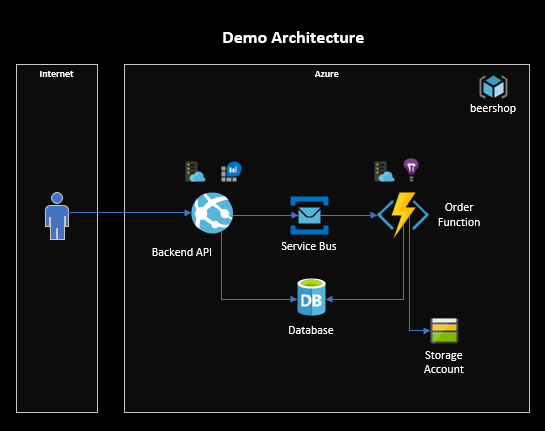
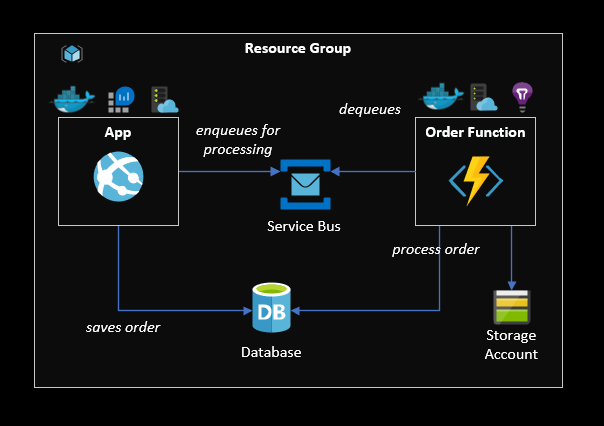
demo vnet

diff --git a/README.md b/README.md
@@ -1,19 +1,62 @@
 # Beer Shop
 
-A demo project to showcase Terraform features on top of Azure Cloud.
+A demo project showcasing Terraform features on top of Azure.
 
-The demo is composed of three main modules:
+This demo is composed of three main modules:
 
-- [**App**](/app) - A Dotnet MVC for user interaction where the user is able to push orders to a queue.
+- [**App**](/app) - A dotnet MVC site for user interaction where the user is able to push orders to a queue.
 - [**Functions**](/functions) - The backend for the application that pulls and processes messages in the queue.
 - [**Infrastructure**](/infrastructure) - The actual Terraform code that creates all the required resources.
 
-Each module is documented separetely.
+## Demo architecture
 
 The following diagram shows all the resources provisioned with Terraform, plus an ACR for Docker images.
 
-<img src="_docs/demo.png" width="500"> </img>
+<img src="_docs/demo.png" width="440"> </img>
 
-### References
+## Local Development
 
-Checkout the [slide deck](https://slides.com/epomatti/terraform) for this demo.
+<u>Requirements</u>: Docker, Azure Functions Core Tools, Dotnet 3.1
+
+### Database
+
+Pull and start SQL Server
+
+```sh
+docker pull mcr.microsoft.com/mssql/server
+docker run -e 'ACCEPT_EULA=Y' -e 'SA_PASSWORD=StrongPassword#999' -p 1433:1433 -d mcr.microsoft.com/mssql/server
+```
+
+### Functions
+
+Create the `local.settings`
+
+Start the function
+
+```sh
+dotnet restore
+func start
+```
+
+### App
+
+
+
+
+## Provisioning the Infrastructure
+
+The infrastructure also has three modules:
+
+- **Enterprise** - Creates the workspaces ("pipelines") in Terraform Cloud
+- **Main** - The resources of the solution
+- **Shared** - Resources shared accross main environments (dev, qa, prod, etc)
+
+To quickly Use Terraform Cloud with [infrastructure/enterprise](infrastructure/enterprise) module as a workspace. It uses the Terraform Enteprise Provider to automatically build the workspaces.
+
+You maybe also use the Terraform CLI or any other CI/CD tool.
+
+## Extra
+
+Checkout my [slide deck](https://slides.com/epomatti/terraform) about Terraform.
+
+Also [Azure Functions Bindings](https://docs.microsoft.com/en-us/azure/azure-functions/functions-bindings-service-bus-trigger?tabs=csharp) proved very useful.
